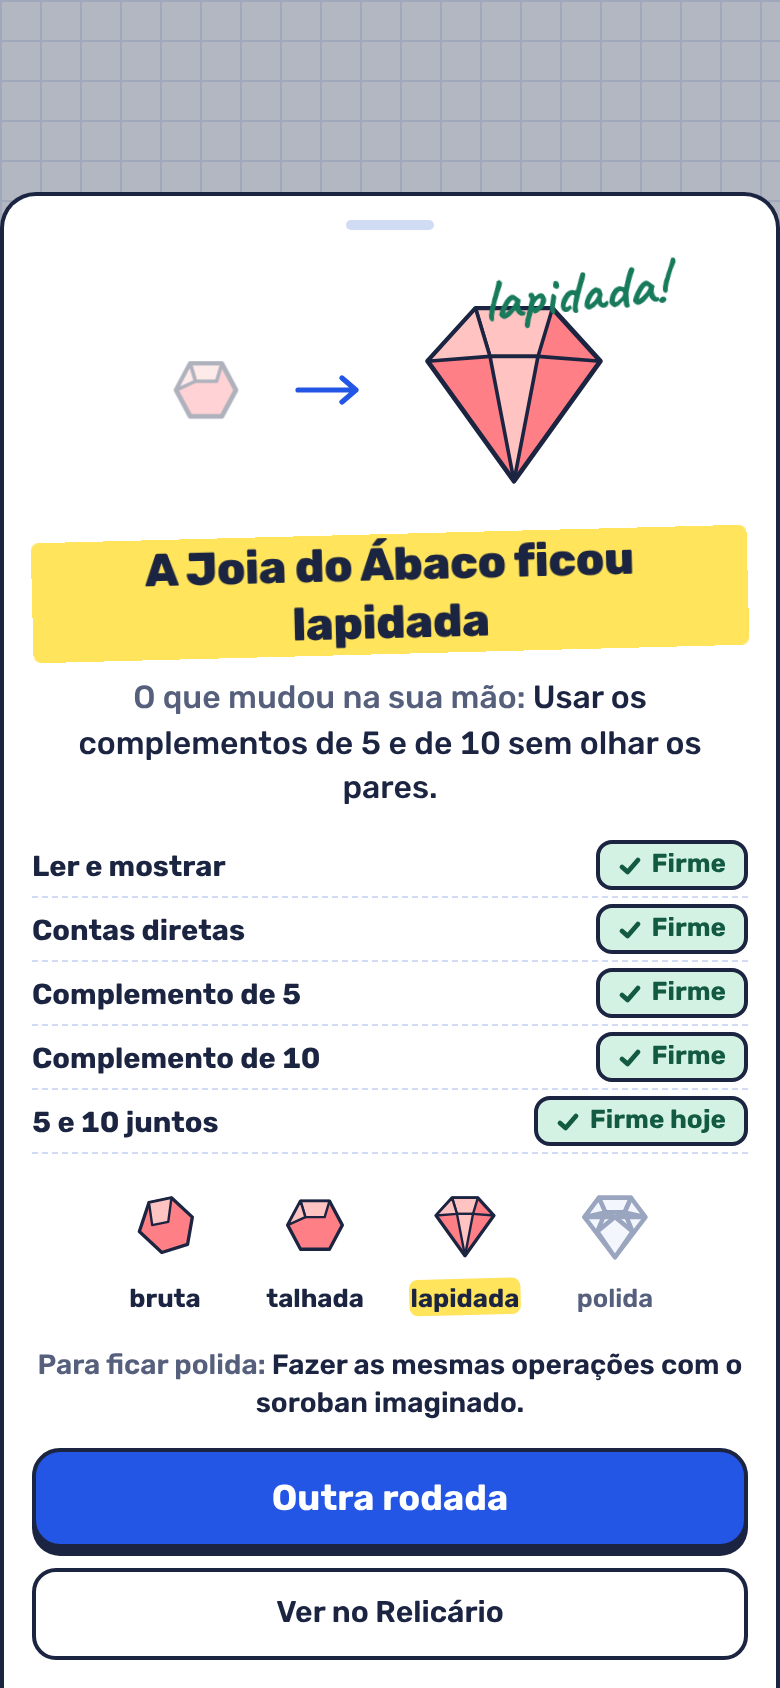
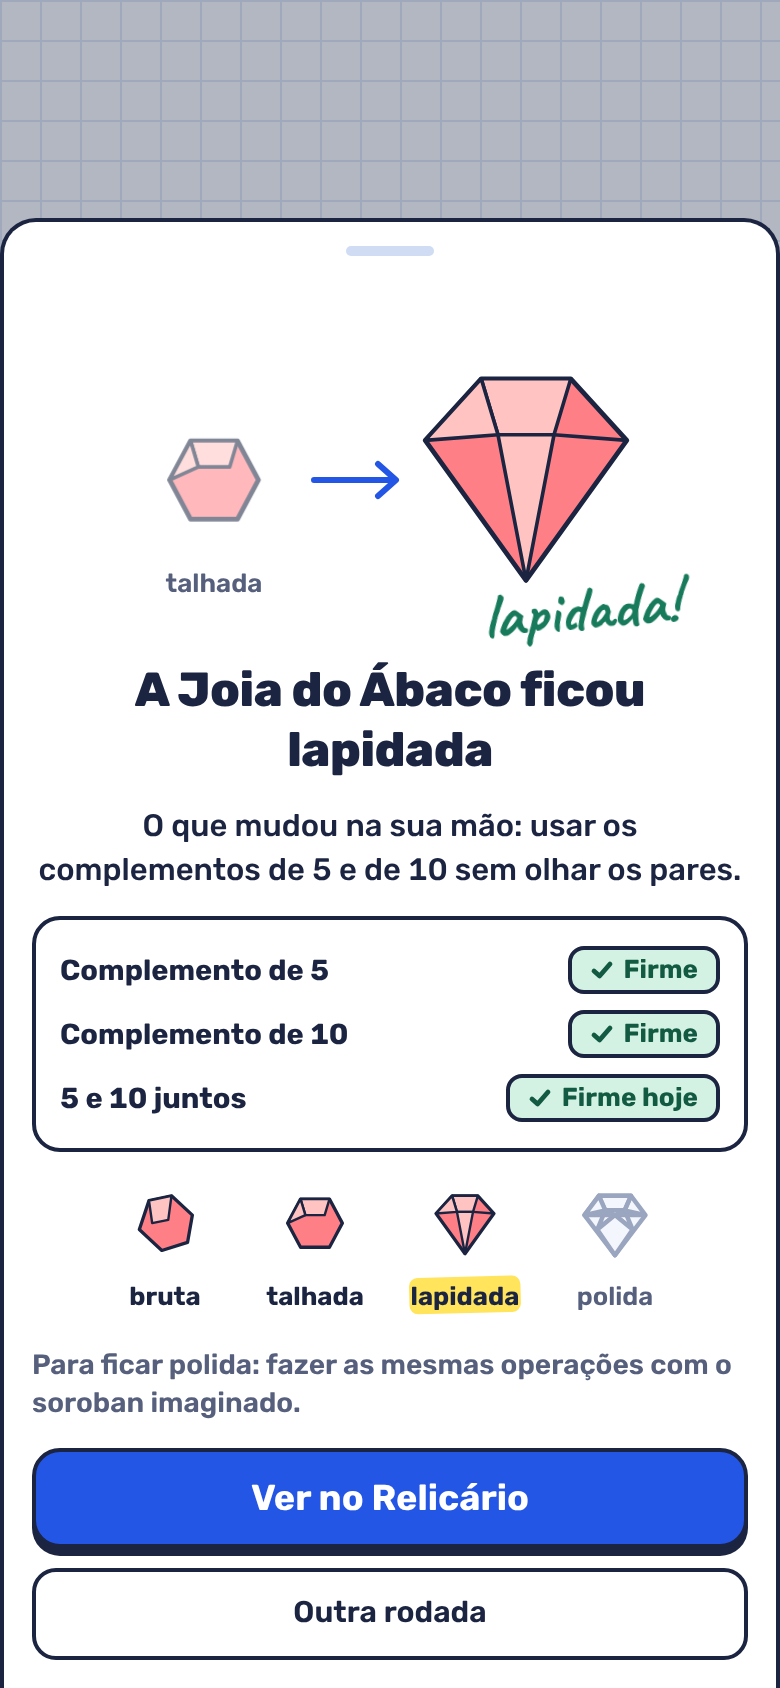
Capturas refeitas e documentos da v0.5.1
Claude-Session: https://claude.ai/code/session_01C5RRK3FjZMesdfedkDmLLu

diff --git a/e2e/capturas.spec.ts b/e2e/capturas.spec.ts
@@ -79,8 +79,9 @@ test("a lapidação e a sombra", async ({ page }) => {
   await page.goto("/relicario/abaco");
   await tocar(page, "[data-acao=comecar]");
   await expect(v(page, OPERACAO)).toHaveAttribute("data-modo", "sombra");
-  // A primeira sombra, com a nota à mão, e o número digitado na caixa "Ficou".
+  // A primeira sombra, no momento "dizer": o teclado no lugar do painel, o número na caixa "Ficou".
   const tela = v(page, OPERACAO);
+  await tocar(page, "[data-acao=dizer]");
   const op = ((await tela.getAttribute("data-operacao")) ?? "").split(":");
   const r = op[0] === "somar" ? Number(op[1]) + Number(op[2]) : Number(op[1]) - Number(op[2]);
   for (const d of String(r)) await tocar(page, `[data-teclado] [data-tecla='${d}']`);

diff --git a/docs/ROADMAP.md b/docs/ROADMAP.md
@@ -136,6 +136,19 @@ Status do trabalho. Leia antes de começar; atualize no fim de cada sessão.
   - Fecho: vitrine com o soroban e a lapidação, percurso `e2e/lapidacao.spec.ts`, capturas em
     `docs/capturas/v0.5/`. Com o contador de joias, a tela cheia sai do topo em telas estreitas
     (a linha passava dos 390 px).
+- v0.5.1 — **A referência inteira e cinco acertos na bancada do soroban**:
+  - `docs/referencia-visual/v05.html` completa (telas 5 a 8 como aprovadas, oito telas).
+  - O soroban nunca encolhe para caber: nas mãos e na sombra ele fica na largura inteira e o
+    painel cede. A sombra tem dois momentos: mãos ("Dizer quanto ficou") e dizer (o teclado no
+    lugar do painel; tocar no soroban volta às mãos, o número fica guardado).
+  - O caminho junto escreve o porquê: `passosDoLance` no núcleo monta os passos do plano com os
+    modelos de `PASSOS_JUNTO` (conteúdo); os números do painel são os das contas; o título "Os
+    pares" com "Me ajuda · 4 de 4" e só as linhas do 10 e do 5 que o lance usa.
+  - A folha da lapidação como a tela 6 e a nota da sombra dentro do leito.
+  - A rodada grava 300 ms depois do gesto, e na hora em `pagehide` e com a página oculta.
+  - Verificação: `npm run verificar`, `npm run e2e` (alvo de toque em 390 × 844 e 360 × 780,
+    sozinho e nos dois momentos da sombra), `src/conteudo/passos-junto.test.ts`, capturas 05, 06
+    e 07 de `docs/capturas/v0.5/` refeitas.
 
 ## Parcialmente implementado
 - Pergunte por escrito (a conversa com o Nônio): verificado com simulação e testes da rota; **não

diff --git a/docs/DESIGN-SYSTEM.md b/docs/DESIGN-SYSTEM.md
@@ -135,10 +135,17 @@ conta) em `--soroban-conta` com a faceta de cima em `--soroban-conta-luz`; **afa
 fica azul, para ler mais rápido. **Haste da vez**: faixa marca-texto pálido e o rótulo numa
 etiqueta marca-texto. **Lance feito limpo**: visto verde ao lado do algarismo. **Acerto**: borda
 verde na ficha e a haste do último lance em verde pálido. **Que vai se mexer** (o caminho junto):
-borda de caneta, seta e o número da ordem na conta que se toca. Rótulos em cima e algarismos
+borda de caneta, seta e o número do passo escrito em cada conta que anda. Rótulos em cima e algarismos
 embaixo (zeros à esquerda em grafite) conforme o nível; na sombra, as contas não aparecem.
 **O toque é a exceção consciente aos 44 px:** a largura da haste (60) na altura de cada conta
 (28); o vão não faz nada. Contas deslizam 160 ms (`transform`); com movimento reduzido, não deslizam.
+**O soroban nunca encolhe para caber; o que cede é o painel.** Em pé, nos níveis que recebem toque
+(as mãos e a sombra), ele ocupa a largura inteira da ficha (em 390 px, cada conta de baixo tem
+60 × 28 de alvo) e a bancada fica com o resto, rolando se precisar. **A sombra tem dois momentos:**
+as mãos (o soroban, Os pares, Desfazer, Zerar e "Dizer quanto ficou") e o dizer (o teclado sobe no
+lugar do painel; tocar no soroban volta às mãos e o número digitado fica guardado). Na primeira
+sombra, "as contas estão aí; só não aparecem" à mão, em `--tinta-suave`, dentro do leito, sobre
+um retalho de `--folha`.
 
 ## A bancada de lapidação
 
